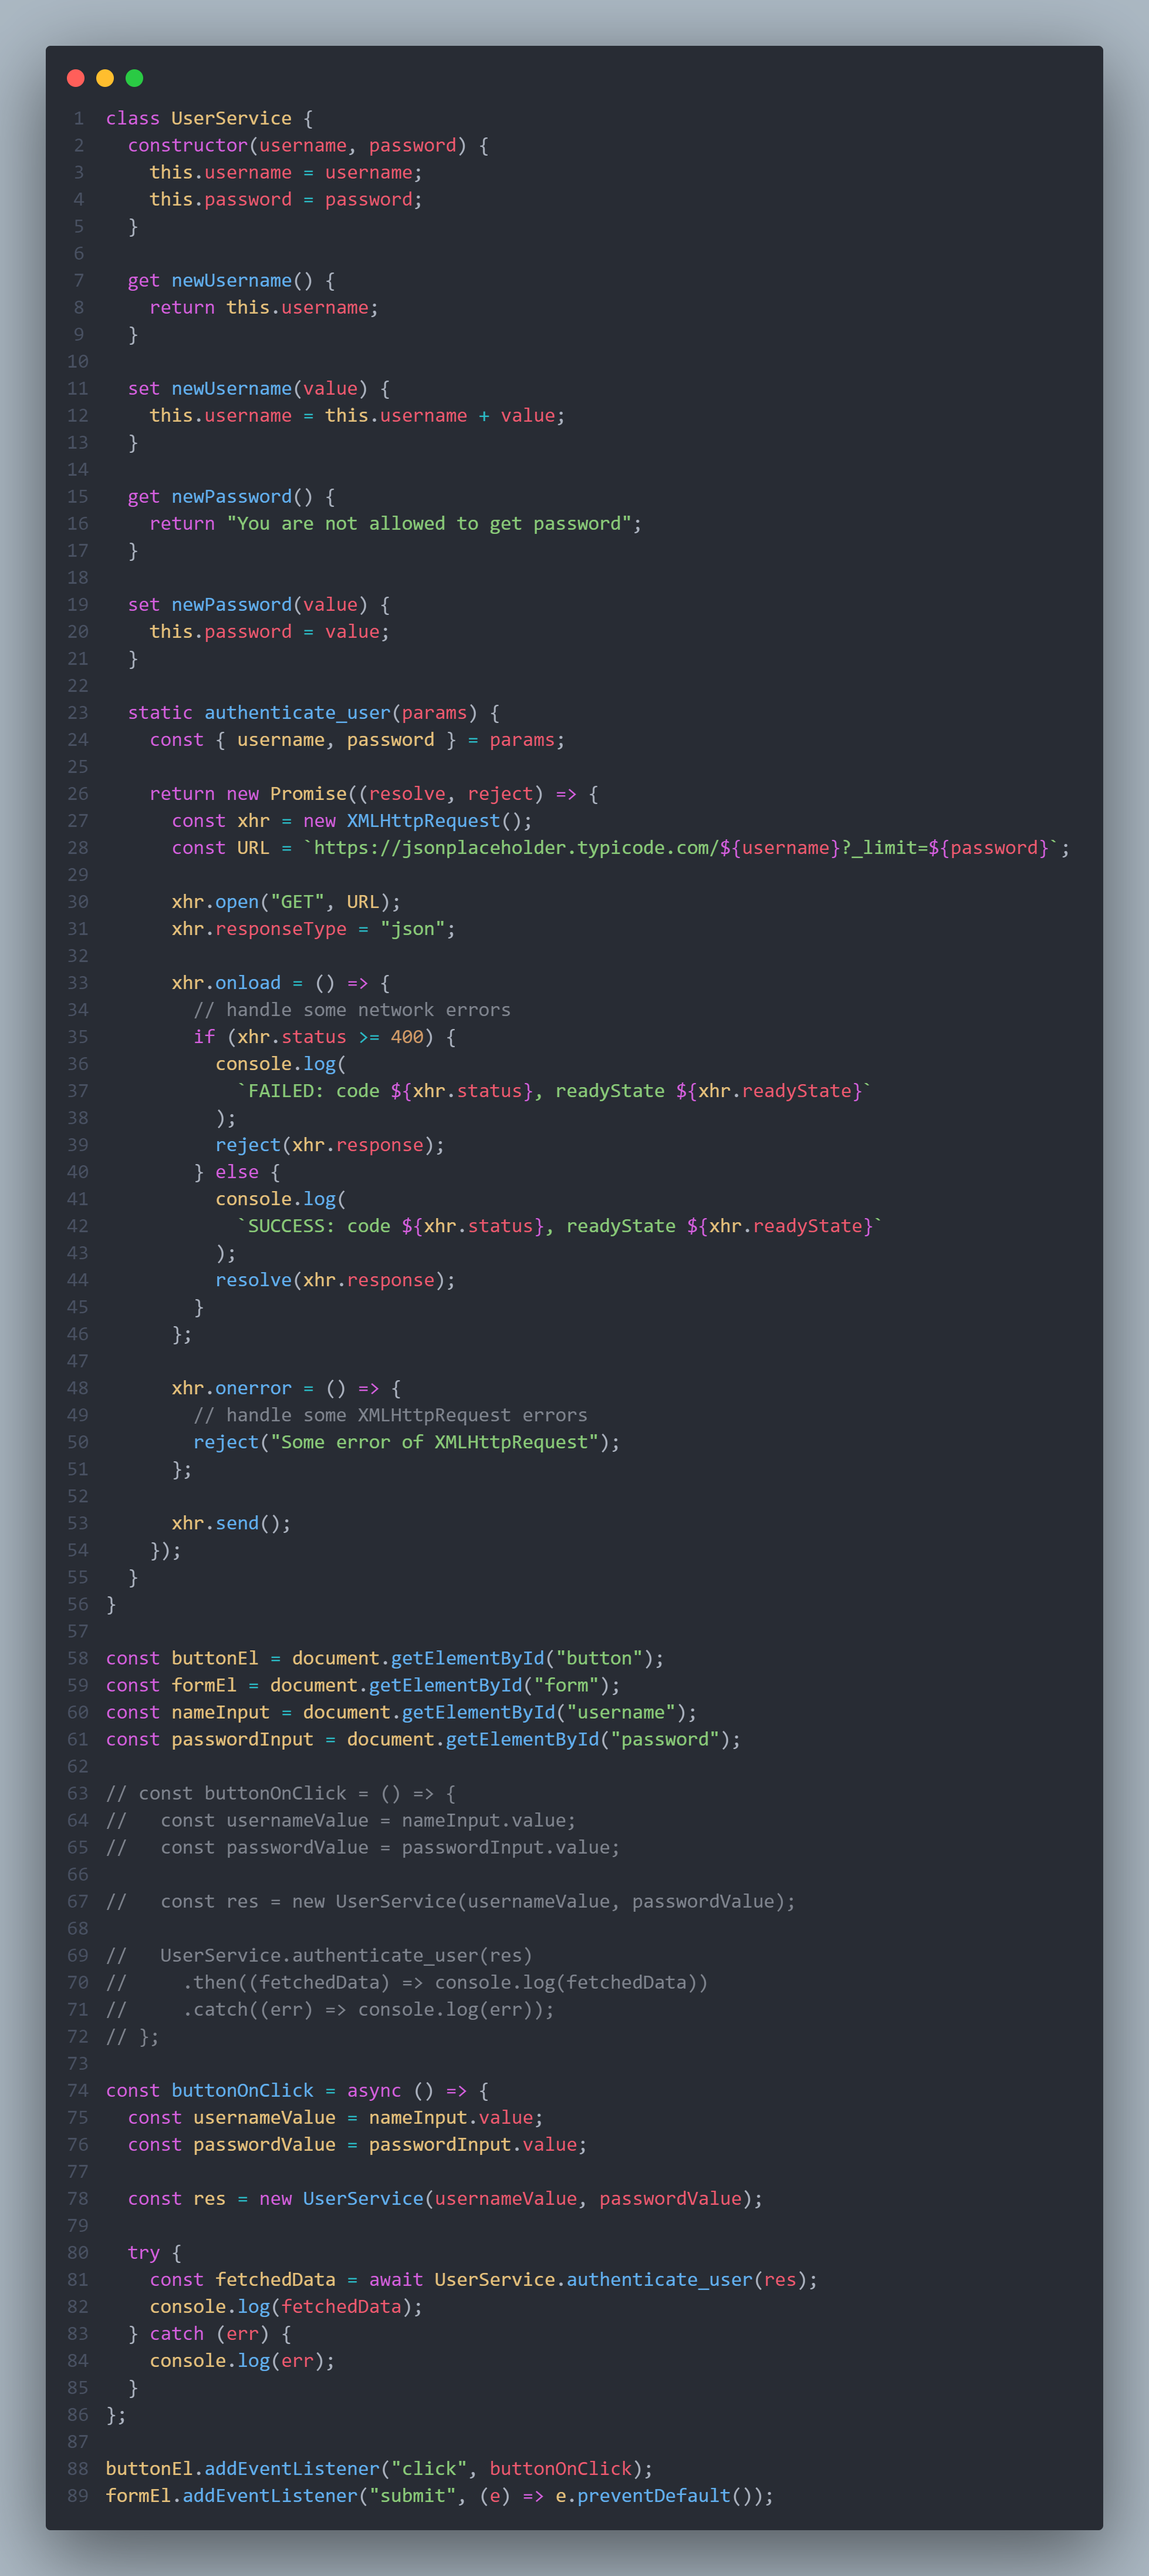
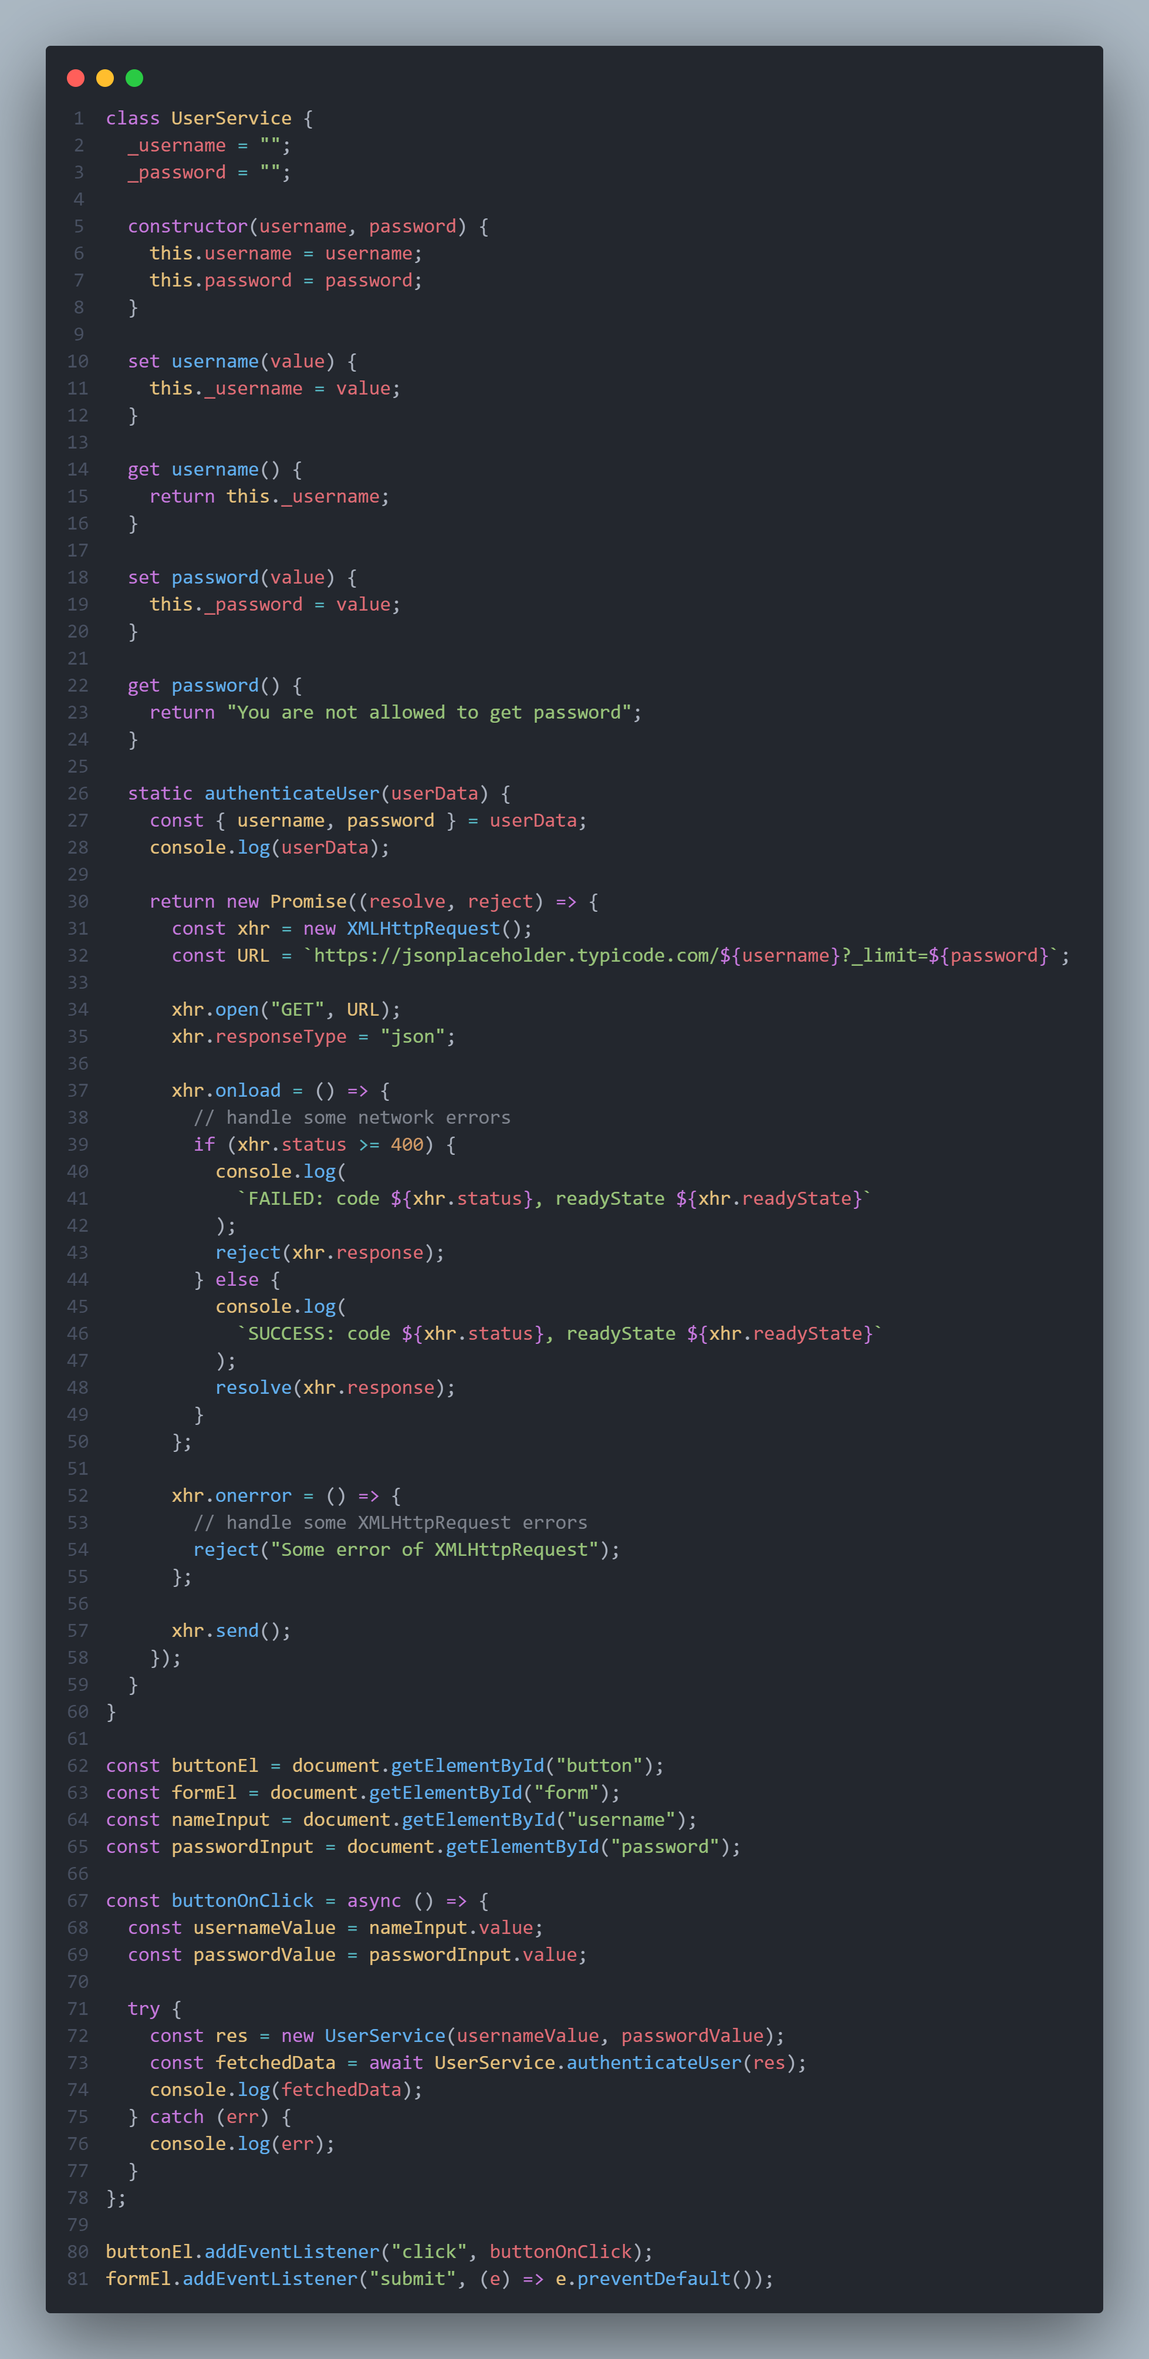
refactor: rename newUsername, newPassword setters, getters & overwrite logic of username setter & relocate creating instace of UserService in try block of buttonOnClick func & replace solution image

diff --git a/solution.js b/solution.js
@@ -1,27 +1,31 @@
 class UserService {
+  _username = "";
+  _password = "";
+
   constructor(username, password) {
     this.username = username;
     this.password = password;
   }
 
-  get newUsername() {
-    return this.username;
+  set username(value) {
+    this._username = value;
   }
 
-  set newUsername(value) {
-    this.username = this.username + value;
+  get username() {
+    return this._username;
   }
 
-  get newPassword() {
+  set password(value) {
+    this._password = value;
+  }
+
+  get password() {
     return "You are not allowed to get password";
   }
 
-  set newPassword(value) {
-    this.password = value;
-  }
-
-  static authenticate_user(params) {
-    const { username, password } = params;
+  static authenticateUser(userData) {
+    const { username, password } = userData;
+    console.log(userData);
 
     return new Promise((resolve, reject) => {
       const xhr = new XMLHttpRequest();
@@ -60,25 +64,13 @@ const formEl = document.getElementById("form");
 const nameInput = document.getElementById("username");
 const passwordInput = document.getElementById("password");
 
-// const buttonOnClick = () => {
-//   const usernameValue = nameInput.value;
-//   const passwordValue = passwordInput.value;
-
-//   const res = new UserService(usernameValue, passwordValue);
-
-//   UserService.authenticate_user(res)
-//     .then((fetchedData) => console.log(fetchedData))
-//     .catch((err) => console.log(err));
-// };
-
 const buttonOnClick = async () => {
   const usernameValue = nameInput.value;
   const passwordValue = passwordInput.value;
 
-  const res = new UserService(usernameValue, passwordValue);
-
   try {
-    const fetchedData = await UserService.authenticate_user(res);
+    const res = new UserService(usernameValue, passwordValue);
+    const fetchedData = await UserService.authenticateUser(res);
     console.log(fetchedData);
   } catch (err) {
     console.log(err);

diff --git a/README.md b/README.md
@@ -1,5 +1,9 @@
 # NewGen-Vision-Task
-## `Legacy + jQuery` 🥰 
+
+## `Source code`
+
 ![image](https://github.com/Fpsska/NewGen-Vision-Task/blob/main/images/legacy.png)
-## `My solution` 🤠
+
+## `My solution`
+
 ![image](https://github.com/Fpsska/NewGen-Vision-Task/blob/main/images/solution.png)
